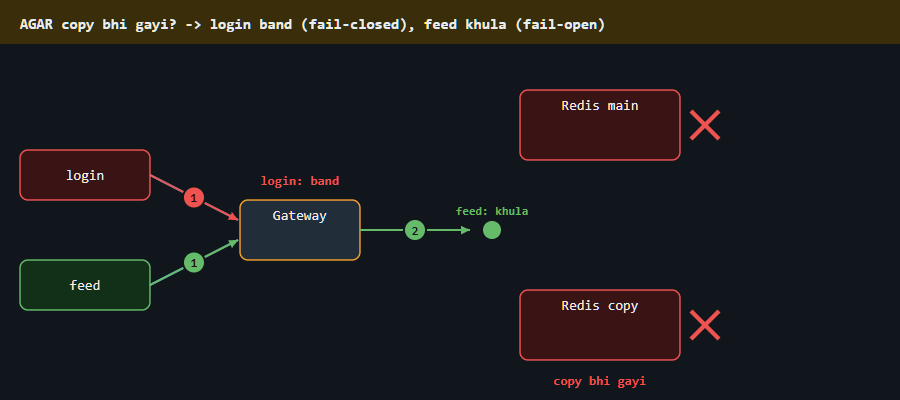
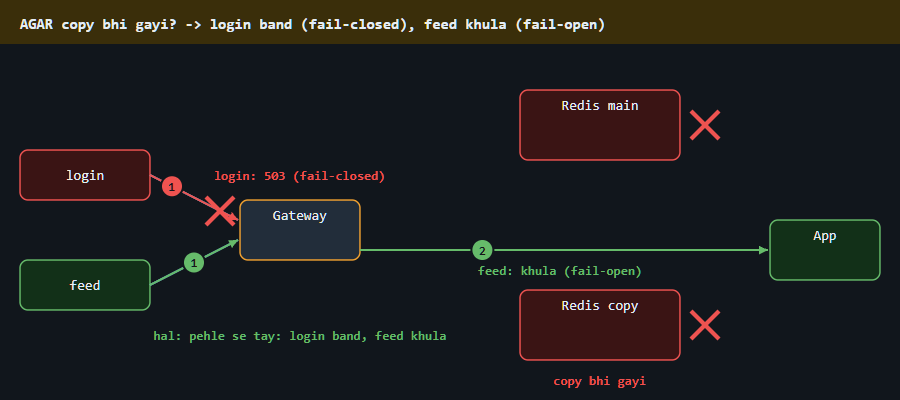
hld rate limiter c4_5: login 503 yahin ruka, feed App tak, hal label

Changed region(s): [[0.4044, 0.51, 0.9956, 0.72], [0.1556, 0.42, 0.4356, 0.57], [0.1556, 0.81, 0.4978, 0.87]]

diff --git a/04_HLD/SYSTEM_DESIGNS/02_rate_limiter/img/c4_anim.html b/04_HLD/SYSTEM_DESIGNS/02_rate_limiter/img/c4_anim.html
@@ -181,9 +181,11 @@ function frame(ph) {
     A(360, 200, 515, 280, C.bad, { dash: 1, n: 3, at: 0.25 }); cross(450, 248);
   } else if (ph === 4) {
     left('bad', 'good'); main('bad'); copy('bad'); L(600, 345, 'copy bhi gayi', C.bad);
-    A(150, 135, 238, 180, C.bad, { n: 1 }); A(150, 245, 238, 200, C.good, { n: 1 });
-    L(300, 145, 'login: band', C.bad);
-    A(360, 190, 470, 190, C.good, { n: 2 }); dot([492, 190], C.good, '', 'feed: khula', C.good);
+    A(150, 135, 238, 180, C.bad, { n: 1, at: 0.25 }); A(150, 245, 238, 200, C.good, { n: 1 });
+    cross(220, 171); L(300, 140, 'login: 503 (fail-closed)', C.bad);
+    A(360, 210, 768, 210, C.good, { n: 2, at: 0.3 }); L(560, 235, 'feed: khula (fail-open)', C.good);
+    B(770, 180, 110, 60, 'App', '', { st: 'good' });
+    L(300, 300, 'hal: pehle se tay: login band, feed khula', C.good);
   } else if (ph === 5) {
     B(20, 15, 130, 50, 'Attacker', '', { st: 'bad' }); A(85, 65, 85, 106, C.bad, { n: 1 });
     left('bad', 'good'); main('bad'); copy('bad');

diff --git a/04_HLD/SYSTEM_DESIGNS/02_rate_limiter/img/c4_anim.js b/04_HLD/SYSTEM_DESIGNS/02_rate_limiter/img/c4_anim.js
@@ -46,9 +46,11 @@ function frame(ph) {
     A(360, 200, 515, 280, C.bad, { dash: 1, n: 3, at: 0.25 }); cross(450, 248);
   } else if (ph === 4) {
     left('bad', 'good'); main('bad'); copy('bad'); L(600, 345, 'copy bhi gayi', C.bad);
-    A(150, 135, 238, 180, C.bad, { n: 1 }); A(150, 245, 238, 200, C.good, { n: 1 });
-    L(300, 145, 'login: band', C.bad);
-    A(360, 190, 470, 190, C.good, { n: 2 }); dot([492, 190], C.good, '', 'feed: khula', C.good);
+    A(150, 135, 238, 180, C.bad, { n: 1, at: 0.25 }); A(150, 245, 238, 200, C.good, { n: 1 });
+    cross(220, 171); L(300, 140, 'login: 503 (fail-closed)', C.bad);
+    A(360, 210, 768, 210, C.good, { n: 2, at: 0.3 }); L(560, 235, 'feed: khula (fail-open)', C.good);
+    B(770, 180, 110, 60, 'App', '', { st: 'good' });
+    L(300, 300, 'hal: pehle se tay: login band, feed khula', C.good);
   } else if (ph === 5) {
     B(20, 15, 130, 50, 'Attacker', '', { st: 'bad' }); A(85, 65, 85, 106, C.bad, { n: 1 });
     left('bad', 'good'); main('bad'); copy('bad');
